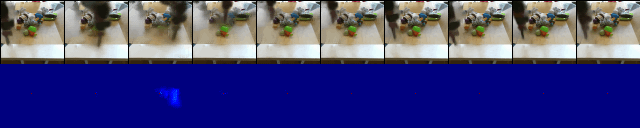
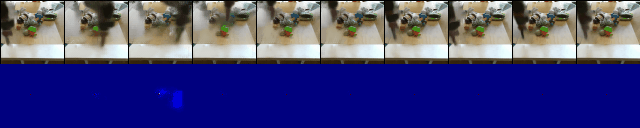
sc

diff --git a/python/misc/split_gif_andcompose.py b/python/misc/split_gif_andcompose.py
@@ -78,10 +78,10 @@ def make_highres():
 
 
 def put_genpix_in_frame():
-    file = '/home/guser/catkin_ws/src/lsdc/tensorflow_data/sawyer/dna_correct_nummask/vid_rndaction_var10_66002_diffmotions_b0_l15.gif'
+    file = '/home/guser/catkin_ws/src/lsdc/tensorflow_data/sawyer/dna_correct_nummask/vid_rndaction_var10_66002_diffmotions_b0_l30.gif'
     frames_dna = getFrames(file)
 
-    file = '/home/guser/catkin_ws/src/lsdc/tensorflow_data/sawyer/1stimg_bckgd_cdna/vid_rndaction_var10_64002_diffmotions_b0_l15.gif'
+    file = '/home/guser/catkin_ws/src/lsdc/tensorflow_data/sawyer/1stimg_bckgd_cdna/vid_rndaction_var10_64002_diffmotions_b0_l30.gif'
     frames_cdna = getFrames(file)
 
 
@@ -102,14 +102,14 @@ def put_genpix_in_frame():
 
         img_dna, size_insert = resize(img_dna)
         # Image.fromarray(img_dna)
-        startr = 200
-        startc = 295
+        startr = 230
+        startc = 650
         newimg[startr:startr + size_insert[0], startc: startc + size_insert[1]] = img_dna
 
         img_cdna, size_insert = resize(img_cdna)
         # Image.fromarray(img_cdna)
-        startr = 400
-        startc = 295
+        startr = 540
+        startc = 650
         newimg[startr:startr + size_insert[0], startc: startc + size_insert[1]] = img_cdna
 
         writer.append_data(newimg)
@@ -119,7 +119,7 @@ def put_genpix_in_frame():
 
 
 def resize(img):
-    img = img[:,:64*6]
+    img = img[:,64:64*2]
     origsize = img.shape
     img = Image.fromarray(img)
     img = img.resize((origsize[1] * 2, origsize[0] * 2), Image.ANTIALIAS)

diff --git a/python/video_prediction/sawyer/create_gif.py b/python/video_prediction/sawyer/create_gif.py
@@ -326,8 +326,8 @@ def make_psum_overtime_example(filepath, tmpc):
 
 if __name__ == '__main__':
     # file_path = '/home/guser/catkin_ws/src/lsdc/experiments/cem_exp/benchmarks_sawyer/predprop_1stimg_bckgd'
-    file_path = '/home/guser/catkin_ws/src/lsdc/experiments/cem_exp/benchmarks_sawyer/dna_multobj'
-    # file_path = '/home/guser/catkin_ws/src/lsdc/experiments/cem_exp/benchmarks_sawyer/cdna_multobj_1stimg'
+    # file_path = '/home/guser/catkin_ws/src/lsdc/experiments/cem_exp/benchmarks_sawyer/dna_multobj'
+    file_path = '/home/guser/catkin_ws/src/lsdc/experiments/cem_exp/benchmarks_sawyer/cdna_multobj_1stimg'
 
     # file_path = '/home/frederik/Documents/catkin_ws/src/lsdc/experiments/cem_exp/benchmarks_sawyer/predprop_1stimg_bckgd'
     hyperparams = imp.load_source('hyperparams', file_path + '/conf.py')
@@ -342,8 +342,8 @@ if __name__ == '__main__':
     # file_path += "/unseen_clutter"
     file_path += "/vid"
 
-    # go_through_timesteps(file_path +'/verbose', conf)
-    insert_in_frame(file_path + '/verbose', conf)
+    go_through_timesteps(file_path +'/verbose', conf)
+    # insert_in_frame(file_path + '/verbose', conf)
 
     # mpcstep = 1
     # genimage_color_scheme_overtime(file_path + '/verbose', mpcstep)

diff --git a/experiments/cem_exp/benchmarks_sawyer/cdna_multobj_1stimg/mod_hyper.py b/experiments/cem_exp/benchmarks_sawyer/cdna_multobj_1stimg/mod_hyper.py
@@ -23,5 +23,5 @@ policy = {
 }
 
 agent = {
-    'T': 15,
+    'T': 20,
 }
